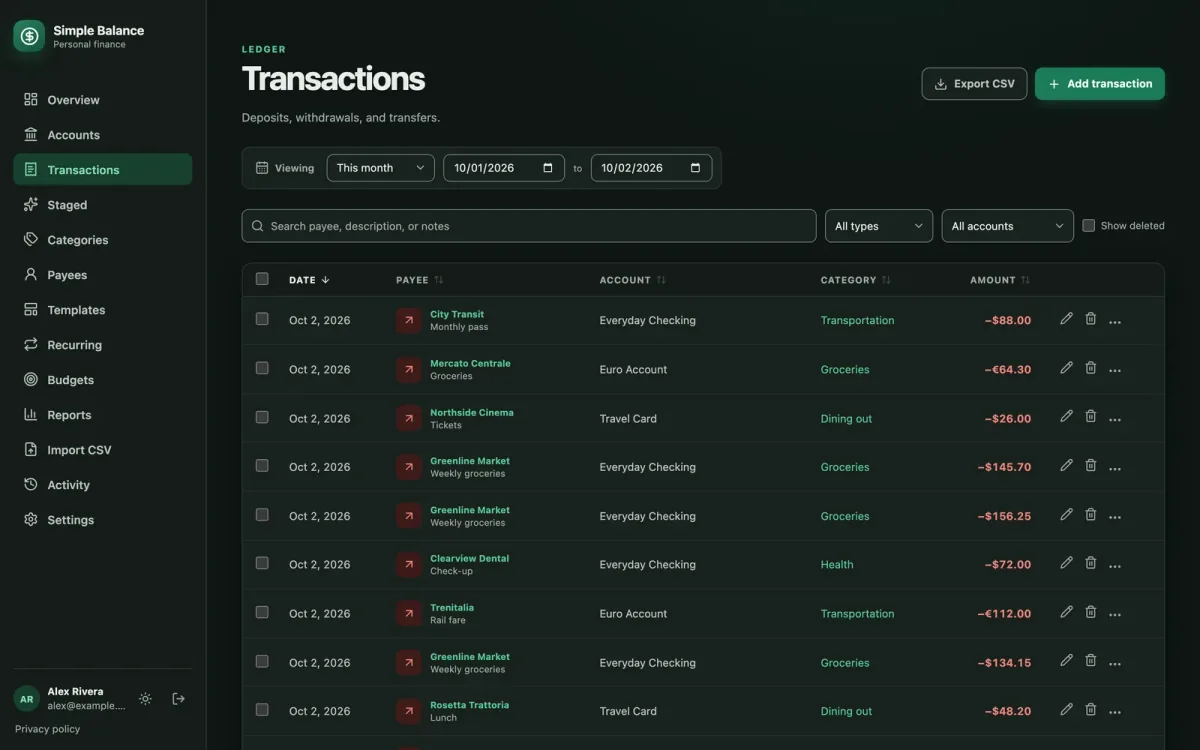
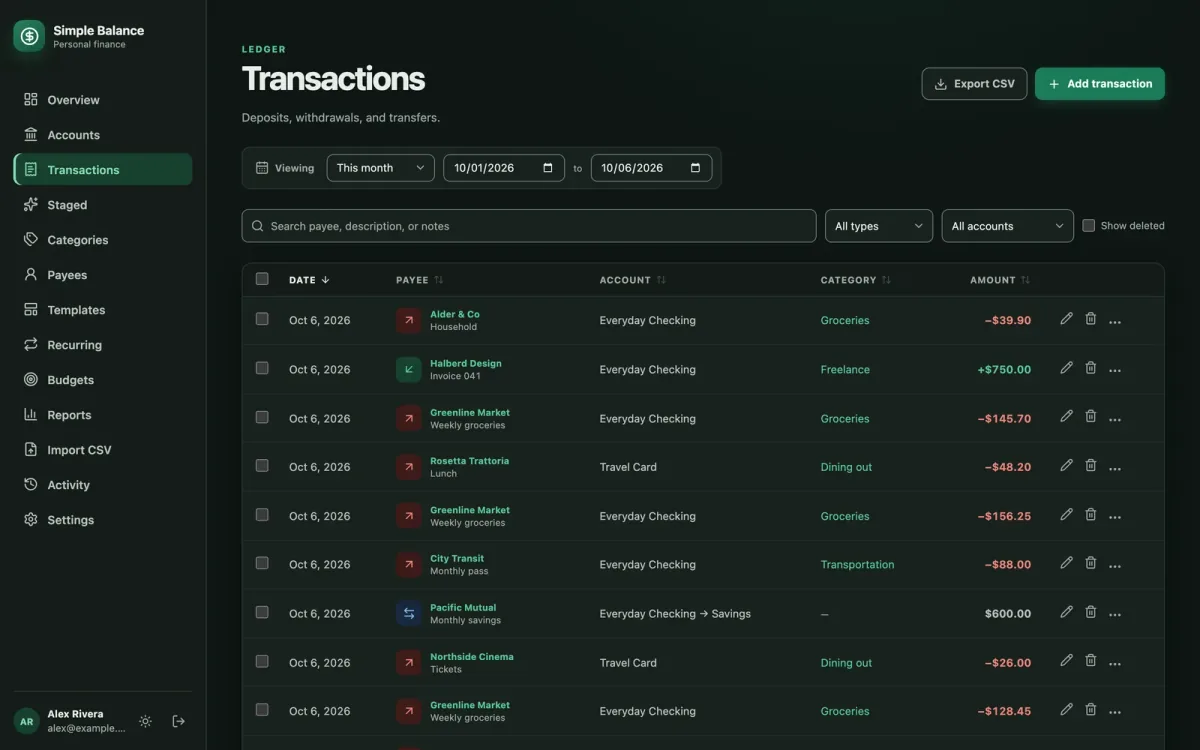
Describe 0.2.1, where a frozen account can still be put away
The application released 0.2.1, and the sync resolved to main at 01c80a6,
the commit the v0.2.1 tag names. The contract moved only its version and
the feature list not at all, so no homepage or pricing copy was rewritten,
and copy:accept recorded the new commit with nothing to accept. The brand
tokens still differ only by --art-ink.

Every check the sync skill ran passed with four things on this site still
false, because the kit carries no behavior and the skill did not ask for
the release's changelog. Reading it found all four; the next commit makes
that reading part of the sync.

- Frozen accounts. 0.2.1 took the freeze check out of setAccountArchived
  and deleteAccount, so a frozen account can be archived, or deleted when
  nothing is on it, like any account. The pricing FAQ said "you just
  can't add to them or change them", and the terms said "accept no
  changes" and "closed to changes". All three now say what it still
  refuses and that it can be put away. tests/legal.test.tsx holds the
  three sentences, proved against each old wording. legalUpdated moves
  to 2026-10-06. No email notice: the change only widens what a person
  may do, and hosted sign-ups are not open.
- The five screenshot pairs the homepage renders are the release's
  capture of 2026-10-06, each re-read against its alt text with the
  picture open. The transaction list now shows a deposit and a transfer
  and no euro payment, so its alt text named two rows that are not
[…]

diff --git a/src/content/legal.ts b/src/content/legal.ts
@@ -18,7 +18,7 @@
  */
 
 /** Bumped whenever either document changes materially. Rendered on both. */
-export const legalUpdated = "2026-10-04";
+export const legalUpdated = "2026-10-06";
 
 const operator = {
   /** Who is responsible for the hosted deployment, in the legal sense. */
@@ -917,15 +917,23 @@ export const terms = {
          * second lapse after a subscription that opened and restored nothing
          * asks nothing, and the earlier choice stands. The next section says
          * when it is open.
+         *
+         * "But accept no changes" was true until 0.2.1, when
+         * `setAccountArchived` and `deleteAccount` dropped the freeze check:
+         * putting a frozen account away gives up a place it never held, so the
+         * limit is untouched. What it still refuses is any change to what it
+         * holds. "Like any other" because deleting is still refused for an
+         * account with anything on it, frozen or not.
          */
         "The free plan lets you use up to three financial accounts at a time and shows " +
           "advertising. Accounts beyond that are frozen: they stay readable and keep counting " +
-          "toward your totals, but accept no changes. One can be used again if you pick it in " +
-          "the one-time choice a downgrade may put to you, if you give it a place that has come " +
-          "free by archiving or deleting an account you're using, or if you subscribe. The " +
-          "Premium plan is $30 per year or $3 per month, lets you use every account you have " +
-          "and removes the advertising. Prices are in US dollars, and no sales tax, VAT or " +
-          "other tax is added to them today.",
+          "toward your totals, but their entries and details accept no changes, though a " +
+          "frozen account can still be archived or deleted like any other. One can be used " +
+          "again if you pick it in the one-time choice a downgrade may put to you, if you give " +
+          "it a place that has come free by archiving or deleting an account you're using, or " +
+          "if you subscribe. The Premium plan is $30 per year or $3 per month, lets you use " +
+          "every account you have and removes the advertising. Prices are in US dollars, and " +
+          "no sales tax, VAT or other tax is added to them today.",
         /*
          * What the application does, not what a tax authority may one day
          * ask. `createStripeSubscription` sets no `automatic_tax` and adds no
@@ -1000,13 +1008,14 @@ export const terms = {
           "after a subscription in which you opened or restored accounts, you choose any three " +
           "to keep using; if three or fewer are, nothing is asked and they stay in use. Any " +
           "others are frozen: readable in full, still counted in your totals, and closed to " +
-          "changes. Until you choose, the oldest three of the accounts in use stay usable: on a " +
-          "first downgrade, your three oldest accounts; after an earlier choice, the oldest " +
-          "three among the accounts still chosen and any you've opened or restored since, so an " +
-          "account that was frozen when you subscribed again isn't one of them. That choice is " +
-          "made once. After that, an account you're using stays active until you archive or " +
-          "delete it, and only then can a frozen account take its place; subscribing again " +
-          "makes all of them usable at once.",
+          "changes in their entries and details, though you can still archive or delete one " +
+          "like any other account. Until you choose, the oldest three of the accounts in use " +
+          "stay usable: on a first downgrade, your three oldest accounts; after an earlier " +
+          "choice, the oldest three among the accounts still chosen and any you've opened or " +
+          "restored since, so an account that was frozen when you subscribed again isn't one " +
+          "of them. That choice is made once. After that, an account you're using stays " +
+          "active until you archive or delete it, and only then can a frozen account take its " +
+          "place; subscribing again makes all of them usable at once.",
         "If you are in the UK or the EEA you have a statutory right to cancel within 14 days of " +
           "first subscribing and receive a refund. Beyond that, payments are generally " +
           "non-refundable, but if something has gone wrong, write to us. We would rather sort " +

diff --git a/src/content/pricing.ts b/src/content/pricing.ts
@@ -8,11 +8,12 @@ import { hero } from "@/content/home";
  * accounts are **in use at once, never how many somebody keeps**. Three
  * functions beside it hold that. `frozenAccountIds` works out which accounts
  * past the three are frozen (readable, counted in every total, closed to every
- * write). Until the person chooses it keeps up to three of the oldest still
- * marked active: every account for somebody who never chose, so the three
- * oldest, but after a choice and a paid spell the ones chosen plus any opened
- * or reopened since, which is why the FAQ says "your three oldest" only about
- * somebody who has never chosen.
+ * change to what they hold, and still free to be archived or deleted). Until
+ * the person chooses it keeps up to three of the oldest still marked active:
+ * every account for somebody who never chose, so the three oldest, but after a
+ * choice and a paid spell the ones chosen plus any opened or reopened since,
+ * which is why the FAQ says "your three oldest" only about somebody who has
+ * never chosen.
  * `activeAccountChange` lets that choice be made once and afterwards only fill
  * a place that has come free; and `accountAllowance` refuses a fourth account,
  * opened or brought back from the archive, while three are in use.
@@ -346,7 +347,14 @@ export const faq: readonly FaqItem[] = [
     // Shorter than it was by about a third, and every one of those clauses is
     // still here. What went was the restatement: the answer said three times,
     // in different words, that nothing is deleted.
-    a: "You keep every one of them, and you choose three to keep using. The others are frozen: still there, still complete, still counted in every balance and report you look at. You just can't add to them or change them. The part worth knowing before you pick is that it isn't a switch you can flip back and forth. The choice is made once, so an account you are using stays usable until you close it or delete it, and only then can a frozen one take its place. Until you choose, up to three stay usable. If you've never chosen, those are your three oldest, and you can pick any three, not just those. Upgrading brings all of them back at once. If you subscribe again, your choice still stands when that plan ends, unless you opened or reopened accounts while subscribed. Then you choose again, from all of them, and until you do, the three that stay usable are the oldest of the ones you chose and the new ones.",
+    //
+    // "You just can't add to them or change them" stopped being true in 0.2.1,
+    // when `setAccountArchived` and `deleteAccount` dropped their freeze check:
+    // somebody who downgrades with thirty accounts can now put away the ones
+    // they no longer use without upgrading first. Said as closing, this page's
+    // word for archiving, and not as deleting, which only an account with
+    // nothing on it allows.
+    a: "You keep every one of them, and you choose three to keep using. The others are frozen: still there, still complete, still counted in every balance and report you look at. You can't add to them or change what's in them, but you can still close the ones you no longer use. The part worth knowing before you pick is that it isn't a switch you can flip back and forth. The choice is made once, so an account you are using stays usable until you close it or delete it, and only then can a frozen one take its place. Until you choose, up to three stay usable. If you've never chosen, those are your three oldest, and you can pick any three, not just those. Upgrading brings all of them back at once. If you subscribe again, your choice still stands when that plan ends, unless you opened or reopened accounts while subscribed. Then you choose again, from all of them, and until you do, the three that stay usable are the oldest of the ones you chose and the new ones.",
   },
   {
     q: "If I close an account, does it still count?",

diff --git a/tests/legal.test.tsx b/tests/legal.test.tsx
@@ -909,6 +909,40 @@ describe("the terms", () => {
     expect(plans).toMatch(/one-time choice a downgrade (may|can) put to you/);
   });
 
+  it("lets a frozen account be put away, on every surface that says what freezing refuses", () => {
+    /*
+     * 0.2.1 took the freeze check out of `setAccountArchived` and
+     * `deleteAccount`: a frozen account still takes no change to what it
+     * holds, and may be archived or deleted, because it held no place and so
+     * frees none. Both of these terms paragraphs and the pricing FAQ had said
+     * it accepts no changes at all, a restriction the product stopped
+     * imposing, told to exactly the reader who has just downgraded with
+     * accounts to clear away. So every sentence, in a passage about frozen
+     * accounts, that says what one refuses also says it can still be put
+     * away: archived, in the terms' word, or closed, in the FAQ's.
+     */
+    const pricingPage = [pricing, pricingMeta, tiers, comparison, faq].flatMap(stringsIn);
+    const passages = [...terms.sections.flatMap((s) => s.paragraphs), ...pricingPage].filter(
+      (passage) => /\bfrozen\b/i.test(passage),
+    );
+    const refusals = passages
+      .flatMap((passage) => passage.toLowerCase().split(/(?<=[.!?])\s+/))
+      .filter((sentence) =>
+        /\b(accepts? no changes?|closed to (every )?changes?|can(no|')t (add to|change))\b/.test(
+          sentence,
+        ),
+      );
+    expect(
+      refusals.length,
+      "found no sentence saying what a frozen account refuses",
+    ).toBeGreaterThanOrEqual(3);
+    for (const sentence of refusals) {
+      expect(sentence, "a frozen account is said to refuse being put away").toMatch(
+        /\b(archived?|close)\b/,
+      );
+    }
+  });
+
   it("promises the choice of three only where the product opens one", () => {
     /*
      * `activeChoicePending` holds only while more live accounts are marked in

diff --git a/src/content/home.ts b/src/content/home.ts
@@ -245,7 +245,7 @@ export const proofs: readonly Proof[] = [
   {
     shot: {
       name: "transactions",
-      alt: "A list of transactions, newest first, each with who was paid, which account it came from, what kind of spending it was and how much. Most are in dollars, and a grocery bill and a train fare from a euro account are in euros.",
+      alt: "A list of transactions, newest first, each with who it was with, which account it was in, its category and its amount, all in dollars. Most are spending on groceries, a lunch, cinema tickets and a transit pass. One is a $750 freelance payment coming in, and one is $600 moved from checking to savings, which shows both accounts and no category.",
       caption:
         "Everything you've entered, in one list you can search or narrow down to one account.",
     },
@@ -373,7 +373,7 @@ export const features: readonly Feature[] = [
 export const featureShots = [
   {
     name: "budgets",
-    alt: "The budgets screen: a form for setting one, with fields for the category, the amount and how it's decided, the currency, a start date, an optional savings goal and which budget gets funded first, and a checkbox for carrying what's left into next month. Below it, the list of standing budgets begins with $200 a month for dining out.",
+    alt: "The budgets screen: a form for setting one, with fields for the category, the amount and how it's decided, the currency, a start date and an optional end date, an optional savings goal and which budget gets funded first, and a checkbox for carrying what's left into next month. Below it, the list of standing budgets begins with $200 a month for dining out.",
     caption:
       "Setting a budget. The checkbox near the bottom is what carries the remainder forward.",
   },

diff --git a/tests/copy.test.ts b/tests/copy.test.ts
@@ -375,7 +375,7 @@ describe("the reader is American", () => {
    * was.
    *
    * The euro is deliberately not here: the product holds more than one
-   * currency and its screenshots show a euro payment, so a sentence about a
+   * currency and its screenshots show a euro account, so a sentence about a
    * second currency is describing the product. What this catches is a British
    * writer's default unit.
    *

diff --git a/docs/adsense.md b/docs/adsense.md
@@ -241,24 +241,28 @@ never starts.
 
    **Two things have to be true of the machine first**, and neither is one
    of the ad settings below, so check both before touching those:
-   - **It runs a release that carries ads, 0.2.0 or later.** Billing and
-     ads arrived in 0.2.0, and 0.1.6 has neither, so on a machine still
-     running it nothing below would do anything. The Oracle Cloud and AWS
-     programs deploy the pinned release image, which is 0.2.0 now, but a
-     machine keeps the image it was made with.
+   - **It runs 0.2.1 or later.** Billing and ads arrived in 0.2.0, and
+     0.1.6 has neither, so on a machine still running it nothing below would
+     do anything. And 0.2.0 is not enough either: its sign-in and session
+     answers handed the session cookie's value back in JSON, readable by any
+     script on the page, and a page showing ads allows scripts from any HTTPS
+     origin. 0.2.1's answers no longer carry it. The Oracle Cloud and AWS programs
+     deploy the pinned release image, which is 0.2.1 now, but a machine keeps
+     the image it was made with.
      `sudo docker ps --format '{{.Image}}'` on the machine names the image
      it is actually running.
 
-     How the machine gets onto 0.2.0 depends on when it was made. One
-     created from the 0.2.0 release starts on it, because the programs
+     How the machine gets onto 0.2.1 depends on when it was made. One
+     created from the 0.2.1 release starts on it, because the programs
      write the pinned tag into its compose file at first boot. **On a
      machine that is already running, `pulumi up` changes nothing on it**:
      neither program runs first boot again or replaces the instance, so the
      compose file keeps the image it was written with. That machine takes
-     0.2.0 the way any deployment does, by the release's own upgrade:
+     0.2.1 the way any deployment does, by the release's own upgrade:
      `docs/upgrades.md` in the application, at the release's tag: its note
-     for 0.2.0, then its How to upgrade. Three parts of it matter on this
-     machine:
+     for every release after the one the machine runs, then its How to
+     upgrade. From 0.1.6, 0.2.0's note is the one with work in it, and three
+     parts of it matter on this machine:
      - **The backup goes through the unit.** Run
        `sudo systemctl start simple-balance-backup.service`, so the dump
        lands in `/var/lib/simple-balance/backups` on the data volume; the
@@ -290,12 +294,12 @@ never starts.
        this machine's own copy, the one its first boot wrote, and one
        written from an earlier commit can leave `PRIVACY_POLICY_URL` out.
        Put the release's `deploy/compose/single/compose.yml` there, which
-       already pins the 0.2.0 image, then run
+       already pins the release's own image, then run
        `sudo docker compose -f /opt/simple-balance/compose.yml pull` and
        `sudo systemctl restart simple-balance`. Before any ad setting is
        set,
        `grep -nE 'PRIVACY_POLICY_URL|ADSENSE_CLIENT_ID|SB_BILLING_ENABLED' /opt/simple-balance/compose.yml`
-       must name all three, and `docker ps` must name the 0.2.0 image.
+       must name all three, and `docker ps` must name the 0.2.1 image.
 
    - **It is selling Premium**, which is `SB_BILLING_ENABLED=true` with
      Stripe configured. Ads appear only where a limited plan is in force:
@@ -325,8 +329,8 @@ never starts.
 
    **Where these go on the Oracle Cloud and AWS single machines depends on
    which scripts the machine runs**, which is the choice made above.
-   - **A machine built by the 0.2.0 programs, or replaced by the settings
-     move above, takes them from the stack.** One command each, from the
+   - **A machine built by the programs from 0.2.0 on, or replaced by the
+     settings move above, takes them from the stack.** One command each, from the
      stack's directory:
      `pulumi config set --path 'simple-balance:env.ADSENSE_CLIENT_ID' ca-pub-…`
      and the same for the others, then `pulumi up`. The machine checks every

diff --git a/CHANGELOG.md b/CHANGELOG.md
@@ -9,6 +9,30 @@ than a contract with readers.
 
 ### Changed
 
+**The site describes 0.2.1.** The application's 0.2.1 release changed no
+price, plan or listed feature, so none of the homepage or pricing copy was
+rewritten for it. Everything below came from reading what the release says it
+changed and checking each part against its code.
+
+- After a downgrade, accounts past the free plan's three are frozen, and the
+  pricing page and the terms both said a frozen account accepts no changes.
+  Since 0.2.1 one can still be closed or deleted, so somebody with a pile of
+  old accounts can clear them out without upgrading first, and both now say
+  so. What a frozen account holds still can't change. The terms carry a new
+  date; nobody is emailed about it, because the change only widens what a
+  person may do, and sign-ups for the hosted version aren't open.
+- The five screenshots on the homepage are the release's capture. Two
+  descriptions stopped matching their pictures and describe the new ones now:
+  the transaction list shows a deposit and a transfer and no euro payment,
+  and the budget form has gained an end date.
+- The setup guide named 0.2.0 as the release the deploy programs install. It's
+  0.2.1. The import guide covers the bank's reference column, which a person
+  can now choose, and says "delete" where the app stopped saying "drop".
+- The advertising setup procedure asks for 0.2.1 before ads go on, where it
+  asked for 0.2.0. 0.2.0's sign-in answers handed the session's identifier
+  back to any script on the page, and a page showing ads lets scripts in from
+  anywhere.
+
 **Ads on both the website and the application can now be personalized, and
 the privacy policy says who is asked first.** Google's European and US-state
 consent messages are published from the advertising account for both, and

diff --git a/content/docs/importing-a-statement.md b/content/docs/importing-a-statement.md
@@ -3,7 +3,7 @@ title: Importing a statement
 description: Point the importer at a CSV your bank exported, tell it how the dates and amounts are written, and review what it proposes before anything counts.
 section: Using it
 order: 1
-updated: 2026-09-22
+updated: 2026-10-06
 ---
 
 The importer reads a CSV, works out its shape, asks you the two things a file
@@ -31,6 +31,11 @@ is read here.
   description and notes columns from the header row, and you can change any of
   them. The amount can be one signed column, or separate debit and credit
   columns.
+- **The bank's reference**, if the file has one: the column your bank uses to
+  identify each transaction. It's suggested from the header like the others,
+  and it's what stops the same statement from being imported twice, so if the
+  column it picked repeats from row to row, set **Bank reference** to
+  **Not mapped**.
 - **Payees and categories you already have.** A name in the file matches yours
   whatever its capitalization or spacing. A category name that's new is created
   when you stage the file, and one you'd archived comes back.
@@ -79,7 +84,7 @@ can leave a category behind for every description in the file. Run a
 ## Duplicates
 
 A row that resembles one already in the ledger is flagged and shown beside the
-entry it resembles, so you can compare them and drop whichever is the spare.
+entry it resembles, so you can compare them and delete whichever is the spare.
 
 Importing the same statement twice is the common case, and it produces one
 ledger rather than two.

diff --git a/content/docs/getting-started.md b/content/docs/getting-started.md
@@ -3,7 +3,7 @@ title: Getting started
 description: Try Simple Balance on your own machine with Docker and PostgreSQL, create the first account with its setup code, and see what running it for real takes.
 section: Install
 order: 1
-updated: 2026-10-04
+updated: 2026-10-06
 ---
 
 Simple Balance runs as a container against a PostgreSQL database. The version
@@ -117,7 +117,7 @@ pulumi up
 
 The second line names a secret and no value, so Pulumi asks for it, which
 keeps it out of your shell history. The programs deploy the pinned release
-image, which is 0.2.0. A machine that's already running moves to a new release
+image, which is 0.2.1. A machine that's already running moves to a new release
 on the machine itself, as the programs' README describes, not from another
 `pulumi up`.
 
